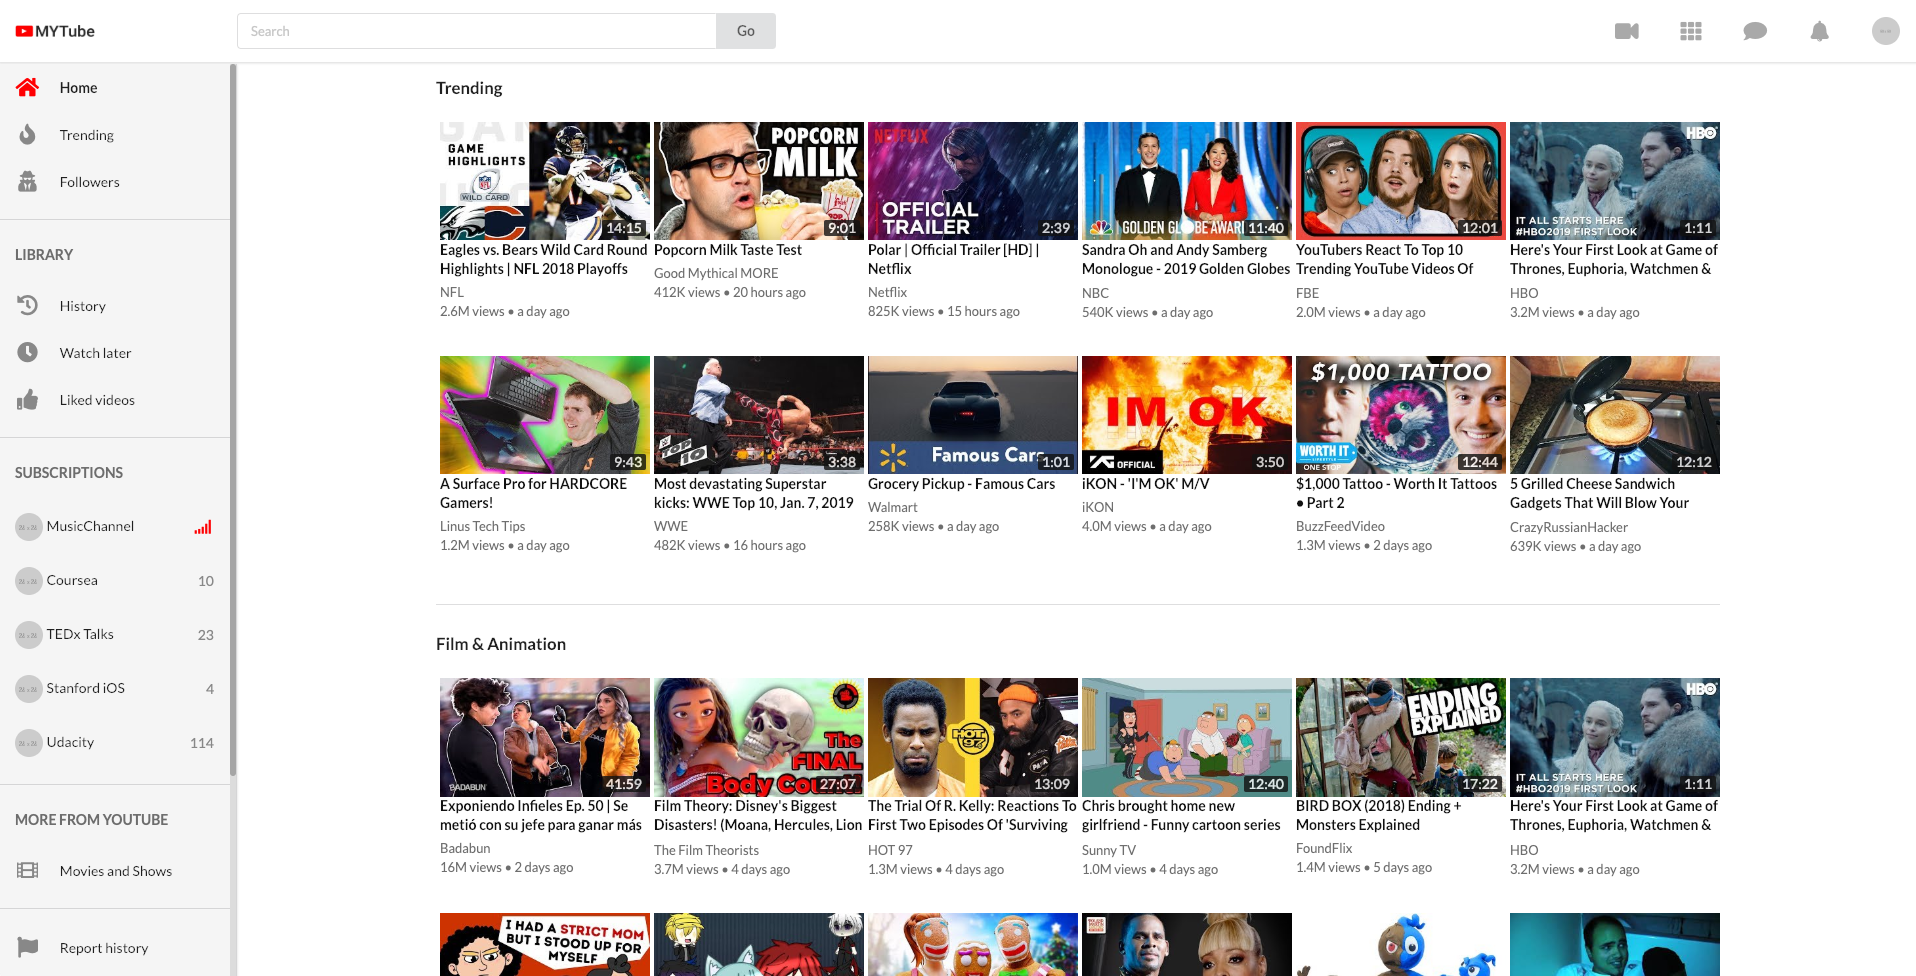
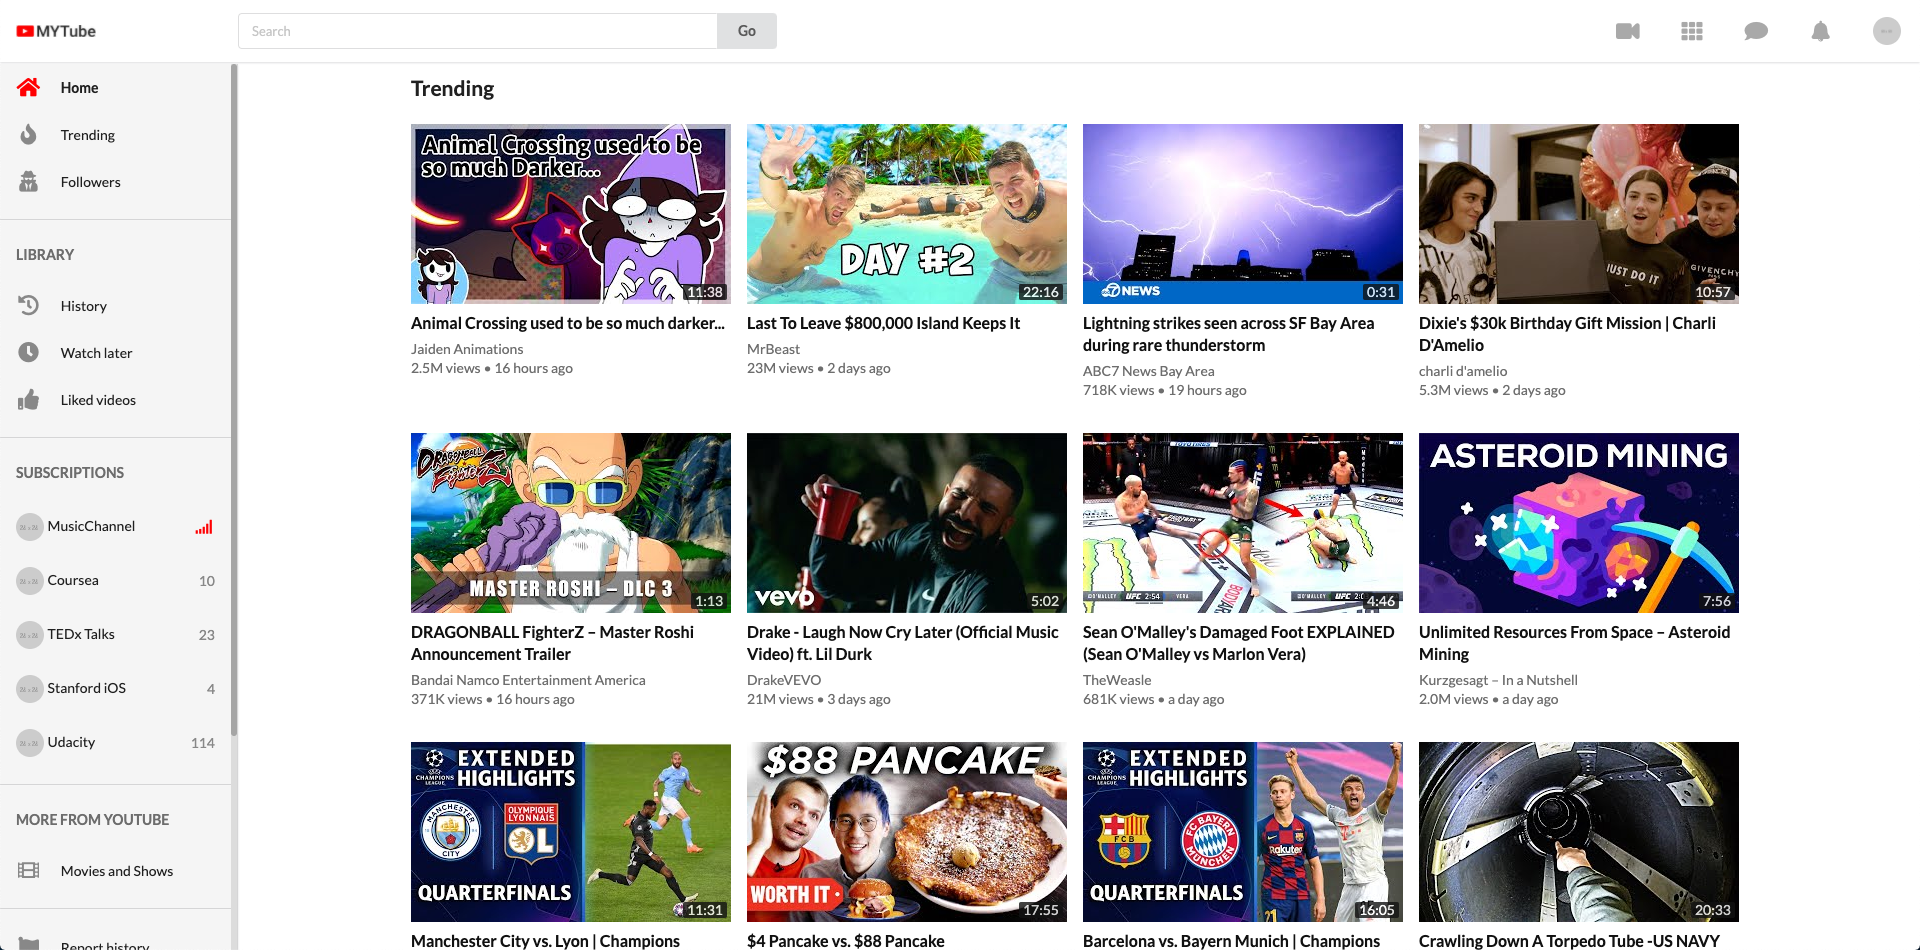
make video previews larger on home feed

diff --git a/src/containers/Home/HomeContent/HomeContent.scss b/src/containers/Home/HomeContent/HomeContent.scss
@@ -2,48 +2,32 @@
 
 .home-content {
   margin-left: $sidebar-left-width;
+  padding-left: 8px;
   display: grid;
   grid: auto / auto;
   justify-content: center;
 }
-@media all and (min-width: 476px) {
+
+@media all and (min-width: 562px) {
   .responsive-video-grid-container {
-    max-width: 240px;
+    max-width: 600px;
   }
 }
 
-@media all and (min-width: 700px) {
+@media all and (min-width: 908px) {
   .responsive-video-grid-container {
-    max-width: 472px;
+    max-width: 848px;
   }
 }
 
-@media all and (min-width: 900px) {
-  .responsive-video-grid-container {
-    max-width: 667px;
-  }
-}
-
-@media all and (min-width: 1096px) {
-  .responsive-video-grid-container {
-    max-width: 864px;
-  }
-}
-
-@media all and (min-width: 1370px) {
+@media all and (min-width: 1254px) {
   .responsive-video-grid-container {
     max-width: 1096px;
   }
 }
 
-@media all and (min-width: 1370px) {
+@media all and (min-width: 1600px) {
   .responsive-video-grid-container {
-    max-width: 1096px;
-  }
-}
-
-@media all and (min-width: 1560px) {
-  .responsive-video-grid-container {
-    max-width: 1284px;
+    max-width: 1344px; /*320 (video preview width) * 4 + 16 (margin) * 4*/
   }
 }

diff --git a/src/components/VideoPreview/VideoPreview.scss b/src/components/VideoPreview/VideoPreview.scss
@@ -2,7 +2,7 @@
 
 .video-preview {
   display: grid;
-  grid: 118px auto / 210px;
+  grid: 180px auto / 320px;
 
   /*
      override grid settings to make VideoPreview horizontal.
@@ -10,6 +10,10 @@
    */
   &.horizontal {
     grid: auto / 210px auto;
+
+    .video-info {
+      margin-top: 0;
+    }
 
     &.expanded {
       grid: auto / 246px auto;
@@ -23,14 +27,15 @@
 }
 
 .video-info {
+  margin-top: 8px;
   grid-row: 2 / 3; /* is overriden when VideoPreview is horizontal */
   grid-column: 1 / 2; /* is overriden when VideoPreview is horizontal */
   color: $text-color-dark;
 
   .video-preview-metadata-container {
     padding-top: 5px;
-    font-size: 13px;
-    color: #6E6E6E;
+    font-size: 14px;
+    color: #6e6e6e;
 
     .channel-title {
       white-space: nowrap;
@@ -41,6 +46,7 @@
 
   .show-max-two-lines {
     overflow: hidden;
+    font-size: 16px;
     line-height: 1.4em;
     max-height: 2.8em;
   }
@@ -51,7 +57,7 @@
 
   .semi-bold {
     &.expanded {
-      font-weight: 400;
+      font-weight: 500;
       font-size: 1.3rem;
     }
     font-weight: 600;

diff --git a/src/containers/Watch/WatchContent/WatchContent.scss b/src/containers/Watch/WatchContent/WatchContent.scss
@@ -29,10 +29,9 @@
 }
 
 // 1280px (max-width of video column) + 402px (width of side bar) + 3 * 24px (empty space on the left, right and between the two columns)
-@media(max-width: 1754px) {
+@media (max-width: 1754px) {
   .watch-grid {
     padding-left: 24px;
     padding-right: 24px;
   }
 }
-

diff --git a/src/components/VideoGrid/VideoGridHeader/VideoGridHeader.scss b/src/components/VideoGrid/VideoGridHeader/VideoGridHeader.scss
@@ -2,7 +2,7 @@
   padding-bottom: 24px;
   padding-top: 14px;
   .title {
-    font-size: 1.2rem;
+    font-size: 1.5rem;
     font-weight: bold;
   }
 }

diff --git a/src/components/VideoGrid/VideoGrid.scss b/src/components/VideoGrid/VideoGrid.scss
@@ -3,7 +3,7 @@
   flex-wrap: wrap;
 
   & > * {
-    margin-left: 4px;
+    margin-right: 16px;
     margin-bottom: 24px;
   }
 }
